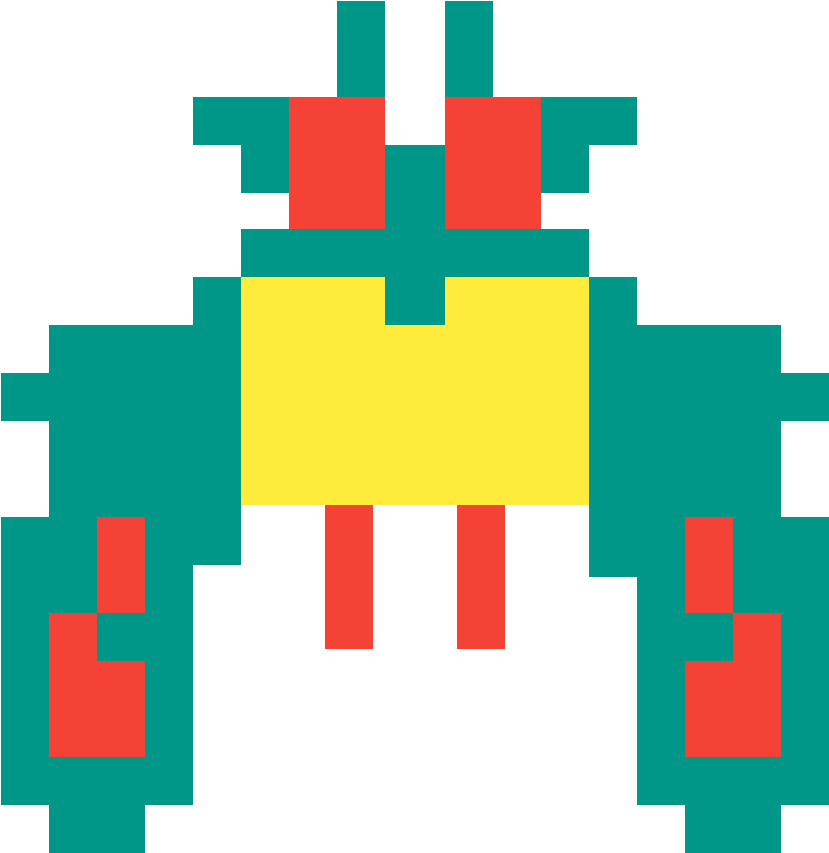
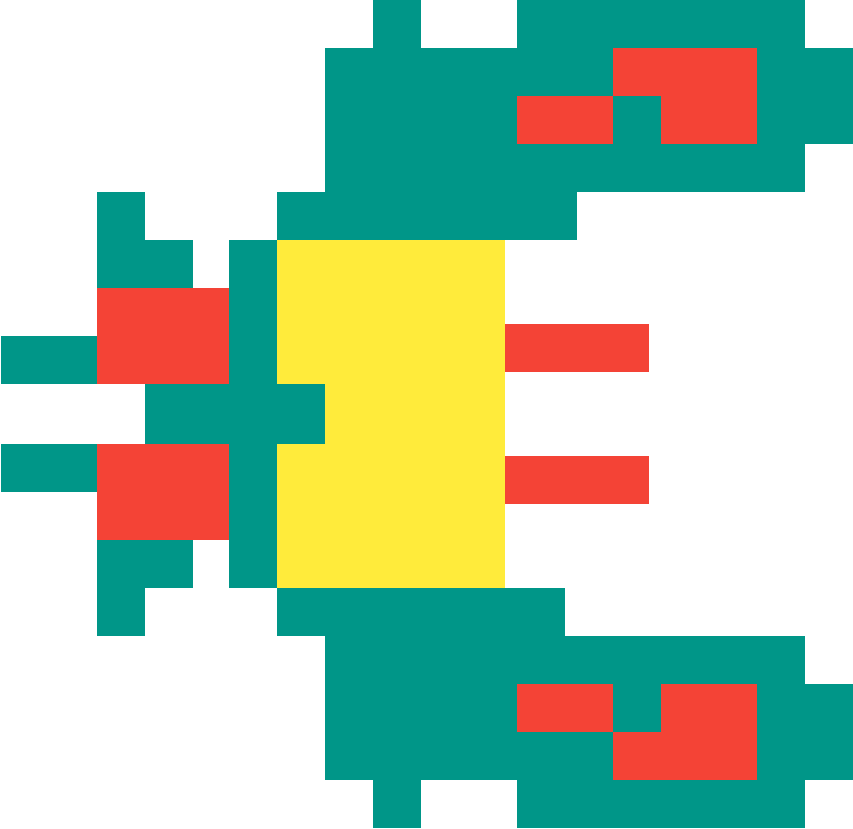
added navbar-animation

diff --git a/react-app/src/components/Navbar/index.js b/react-app/src/components/Navbar/index.js
@@ -1,4 +1,4 @@
-import React, { useState } from "react";
+import React, { useState, useEffect } from "react";
 import { NavLink, useHistory } from "react-router-dom";
 import LogoutButton from "../auth/LogOutButton";
 import {
@@ -15,6 +15,38 @@ const NavBar = () => {
   const user = useSelector((state) => state.session.user);
   const [userDrop, setUserDrop] = useState(false);
 
+  useEffect(() => {
+    const bug3 = document.querySelector(".galaga-bug-3-pre");
+    const bug2 = document.querySelector(".galaga-bug-2-pre");
+    const bug1 = document.querySelector(".galaga-bug-1-pre");
+    const boss = document.querySelector(".galaga-boss-pre");
+    const missile1 = document.querySelector(".galaga-missile-1-pre");
+    const missile2 = document.querySelector(".galaga-missile-2-pre");
+    const missile3 = document.querySelector(".galaga-missile-3-pre");
+    const missile4 = document.querySelector(".galaga-missile-4-pre");
+    const ship = document.querySelector(".galaga-ship-container");
+    ship.addEventListener("click", (e) => {
+      bug3.classList.add("galaga-bug-3");
+      bug2.classList.add("galaga-bug-2");
+      bug1.classList.add("galaga-bug-1");
+      boss.classList.add("galaga-boss");
+      missile1.classList.add("galaga-missile-1")
+      missile2.classList.add("galaga-missile-2")
+      missile3.classList.add("galaga-missile-3")
+      missile4.classList.add("galaga-missile-4")
+      setTimeout(() => {
+        bug3.classList.remove("galaga-bug-3");
+        bug2.classList.remove("galaga-bug-2");
+        bug1.classList.remove("galaga-bug-1");
+        boss.classList.remove("galaga-boss");
+        missile1.classList.remove("galaga-missile-1")
+        missile2.classList.remove("galaga-missile-2")
+        missile3.classList.remove("galaga-missile-3")
+        missile4.classList.remove("galaga-missile-4")
+      }, 3000);
+    });
+  }, []);
+
   const goToProfile = (userId) => {
     history.push(`/users/${userId}`);
   };
@@ -29,32 +61,32 @@ const NavBar = () => {
           <div className="galaga">
             <div className="galaga-ship-container">
               <img className="galaga-ship" src="galaga-ship.png" />
-              <div className="galaga-missiles"></div>
             </div>
+            <div className="test-cover"></div>
             <div className="galaga-missile-container">
               <img
-                className="galaga-missile galaga-missile-4"
+                className="galaga-missile galaga-missile-4-pre"
                 src="galaga-missile.png"
               ></img>
               <img
-                className="galaga-missile galaga-missile-3"
+                className="galaga-missile galaga-missile-3-pre"
                 src="galaga-missile.png"
               ></img>
               <img
-                className="galaga-missile galaga-missile-2"
+                className="galaga-missile galaga-missile-2-pre"
                 src="galaga-missile.png"
               ></img>
               <img
-                className="galaga-missile galaga-missile-1"
+                className="galaga-missile galaga-missile-1-pre"
                 src="galaga-missile.png"
               ></img>
             </div>
             <div className="galaga-enemy-container">
               <div className="cover"></div>
-              <img className="galaga-bug-3" src="galaga-bug.png" />
-              <img className="galaga-bug-2" src="galaga-bug.png" />
-              <img className="galaga-bug-1" src="galaga-bug.png" />
-              <img id="galaga-boss" src="galaga-boss.png" />
+              <img className="galaga-bug-3-pre" src="galaga-bug.png" />
+              <img className="galaga-bug-2-pre" src="galaga-bug.png" />
+              <img className="galaga-bug-1-pre" src="galaga-bug.png" />
+              <img className="galaga-boss-pre" id="gb" src="galaga-boss.png" />
             </div>
           </div>
         </div>

diff --git a/react-app/src/components/Navbar/Navbar.css b/react-app/src/components/Navbar/Navbar.css
@@ -84,6 +84,7 @@
 
 #site-title {
   font-family: "Press Start 2P", cursive;
+  z-index: 99;
 }
 .galaga {
   display: flex;
@@ -91,85 +92,176 @@
   position: relative;
   width: 200px;
 }
+.galaga-ship-container {
+  z-index: 99;
+}
+.galaga-ship-container:hover {
+  cursor: pointer;
+}
 .galaga-ship-container > img {
   background-color: white;
   width: 24px;
+}
+.test-cover {
+  position: absolute;
   z-index: 2;
+  background-color: white;
+  width: 100px;
+  height: 10px;
+  left: -4.3rem;
+}
+.galaga-missile-container {
+  display: flex;
+  justify-content: space-between;
+  position: absolute;
+  left: -3rem;
+  z-index: 1;
 }
 .galaga-missile-container > img {
-  position: absolute;
-  top: 11px;
-  left: 18px;
-  width: 7px;
-  transform: rotate(90deg);
-  z-index: 1;
+  width: 12px;
+  margin: 0rem .25rem;
 }
 .cover {
   position: absolute;
+  z-index: 99;
+  height: 30px;
+  width: 250px;
   background-color: white;
-  right: -1rem;
-  top: 0;
-  z-index: 999999999;
-  width: 35px;
-  height: 35px;
-  border-left: 1px solid rgba(177, 177, 177, 0.116);
+  border-left: 1px solid rgba(172, 172, 172, 0.253);
+  box-shadow: -2px 0px 0px 0px rgba(170, 170, 170, 0.171);
+}
+.galaga-enemy-container {
+  display: flex;
+  align-items: center;
+  position: absolute;
+  right: -3rem;
 }
 .galaga-enemy-container > img {
   width: 14px;
-  transform: rotate(270deg);
-  position: absolute;
-  right: 0;
-  top: 9px;
-}
-#galaga-boss {
-  width: 18px;
-  top: 7px;
+  height: 14px;
+  margin: 0rem .5rem;
 }
 .galaga-bug-1 {
-  animation: bug 4s;
+  animation: bug3 4s;
 }
 .galaga-bug-2 {
-  animation: bug 6s;
+  animation: bug2 4s;
 }
 .galaga-bug-3 {
-  animation: bug 8s;
+  animation: bug1 4s;
 }
-#galaga-boss {
-  animation: bug 10s;
+#gb {
+  width: 18px;
+  height: 18px;
 }
-@keyframes bug {
-  28.9% {
+.galaga-boss {
+  animation: bug4 4s;
+}
+@keyframes bug1 {
+  20% {
     opacity: 1;
   }
-  29%{
+  20.1%{
     opacity: 0;
   }
   100% {
-    right: 90%;
+    transform: translateX(-200px);
+    opacity: 0;
+  }
+}
+@keyframes bug2 {
+  24.9% {
+    opacity: 1;
+  }
+  25%{
+    opacity: 0;
+  }
+  100% {
+    transform: translateX(-200px);
+    opacity: 0;
+  }
+}
+@keyframes bug3 {
+  31% {
+    opacity: 1;
+  }
+  31.1%{
+    opacity: 0;
+  }
+  100% {
+    transform: translateX(-200px);
+    opacity: 0;
+  }
+}
+@keyframes bug4 {
+  37.9% {
+    opacity: 1;
+  }
+  38%{
+    opacity: 0;
+  }
+  100% {
+    transform: translateX(-200px);
     opacity: 0;
   }
 }
 .galaga-missile-1 {
-  animation: missile 10s;
+  animation: missile1 4s;
 }
 .galaga-missile-2 {
-  animation: missile 8s;
+  animation: missile2 4s;
 }
 .galaga-missile-3 {
-  animation: missile 6s;
+  animation: missile3 4s;
 }
 .galaga-missile-4 {
-  animation: missile 4s;
+  animation: missile4 4s;
 }
-@keyframes missile {
-  28.9% {
+@keyframes missile1 {
+  20% {
     opacity: 1;
   }
-  29%{
+  20.1%{
     opacity: 0;
   }
   100% {
-    left: 90%;
+    transform: translateX(200px);
+    opacity: 0;
+  }
+}
+@keyframes missile2 {
+  24.9% {
+    opacity: 1;
+  }
+  25%{
+    opacity: 0;
+  }
+  100% {
+    transform: translateX(200px);
+    opacity: 0;
+  }
+}
+@keyframes missile3 {
+  31% {
+    opacity: 1;
+  }
+  31.1%{
+    opacity: 0;
+  }
+  100% {
+    transform: translateX(200px);
+    opacity: 0;
+  }
+}
+@keyframes missile4 {
+  37.9% {
+    opacity: 1;
+  }
+  38%{
+    opacity: 0;
+  }
+  100% {
+    transform: translateX(200px);
     opacity: 0;
   }
 }
